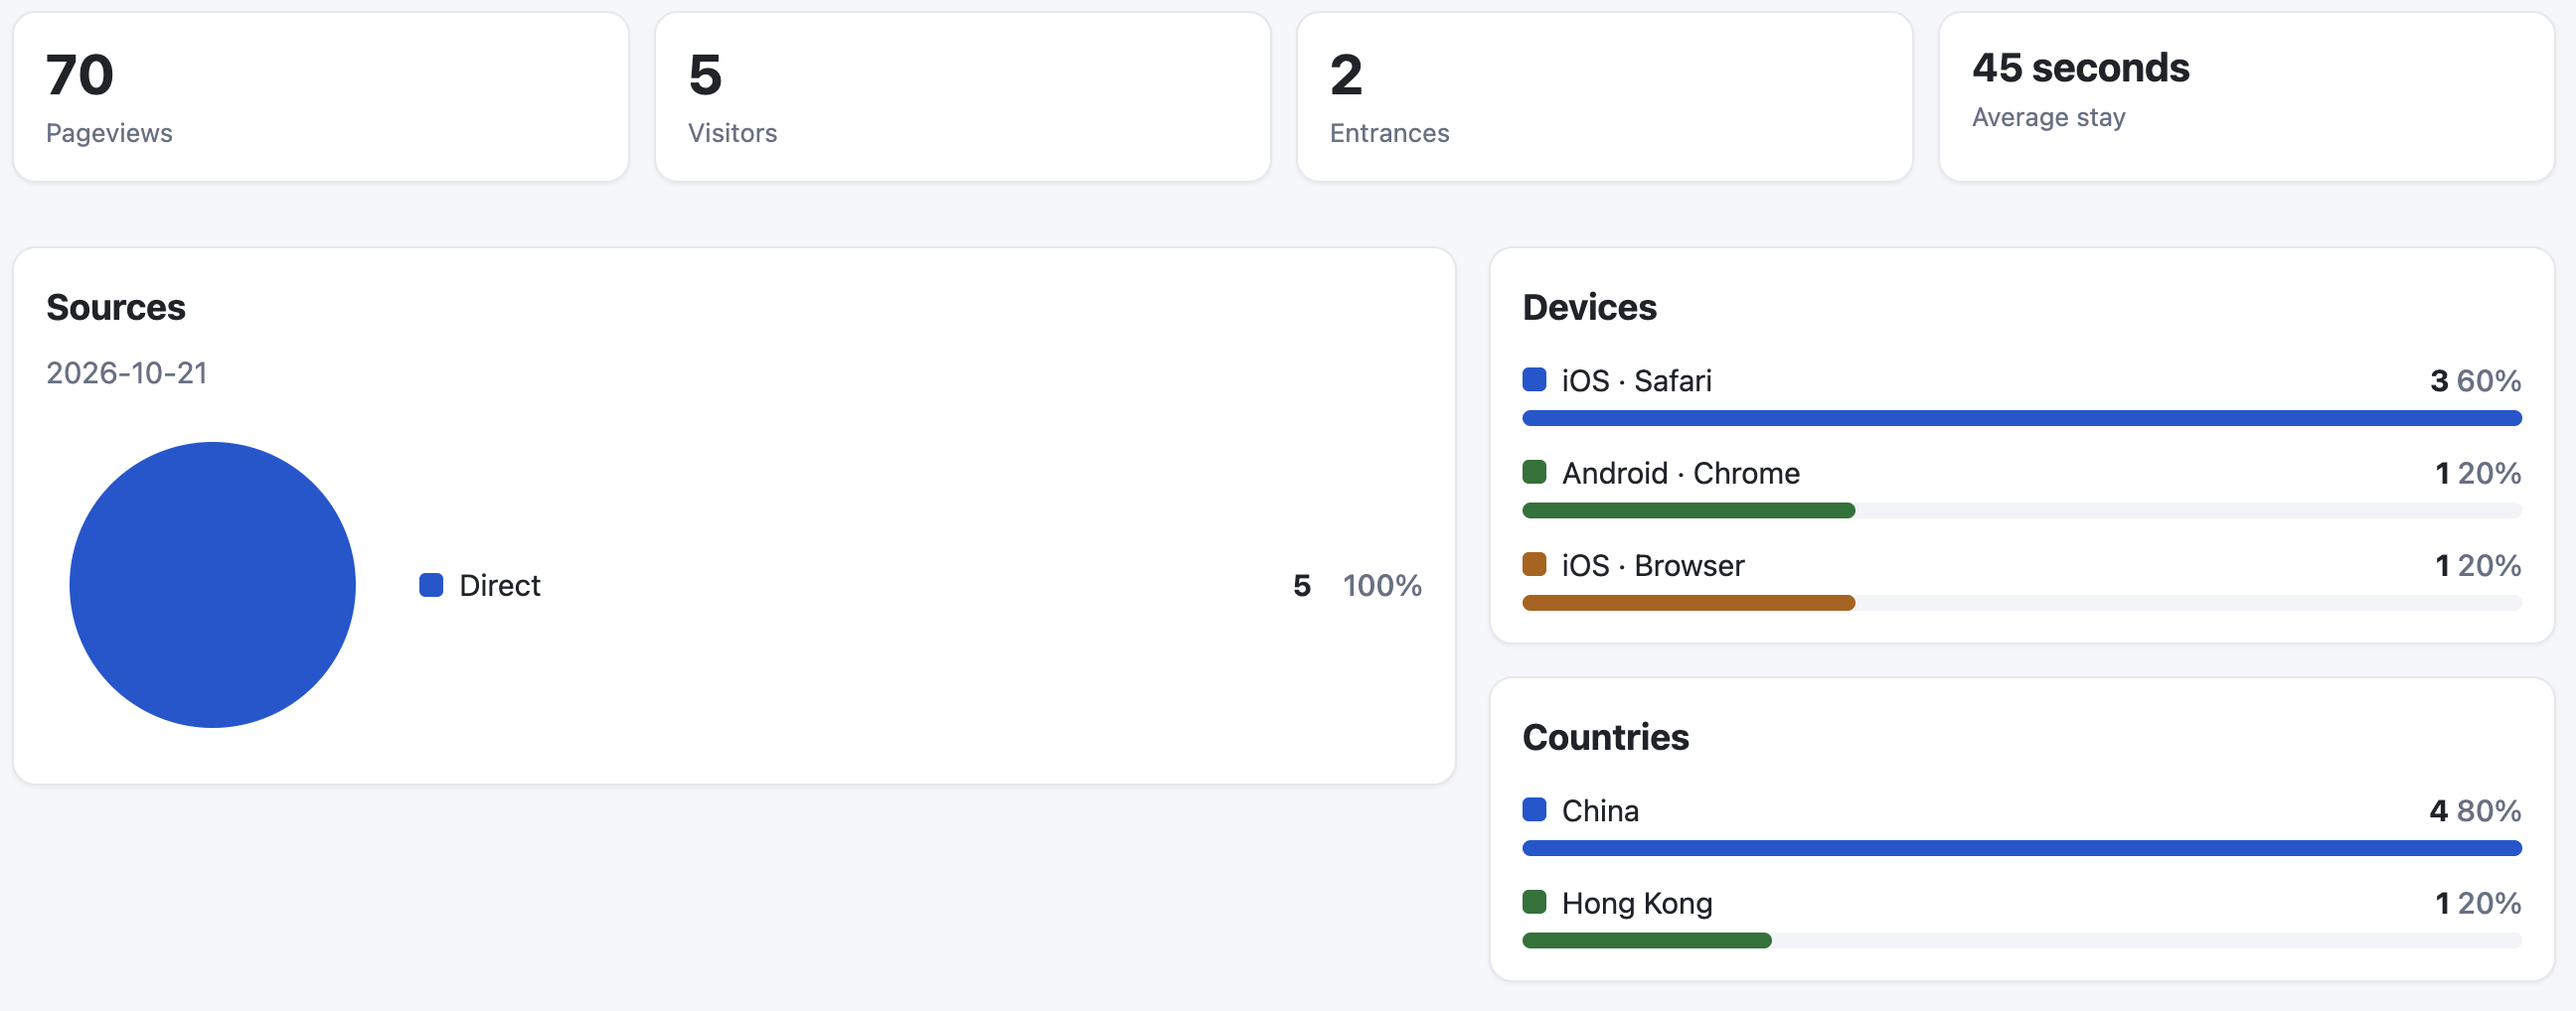
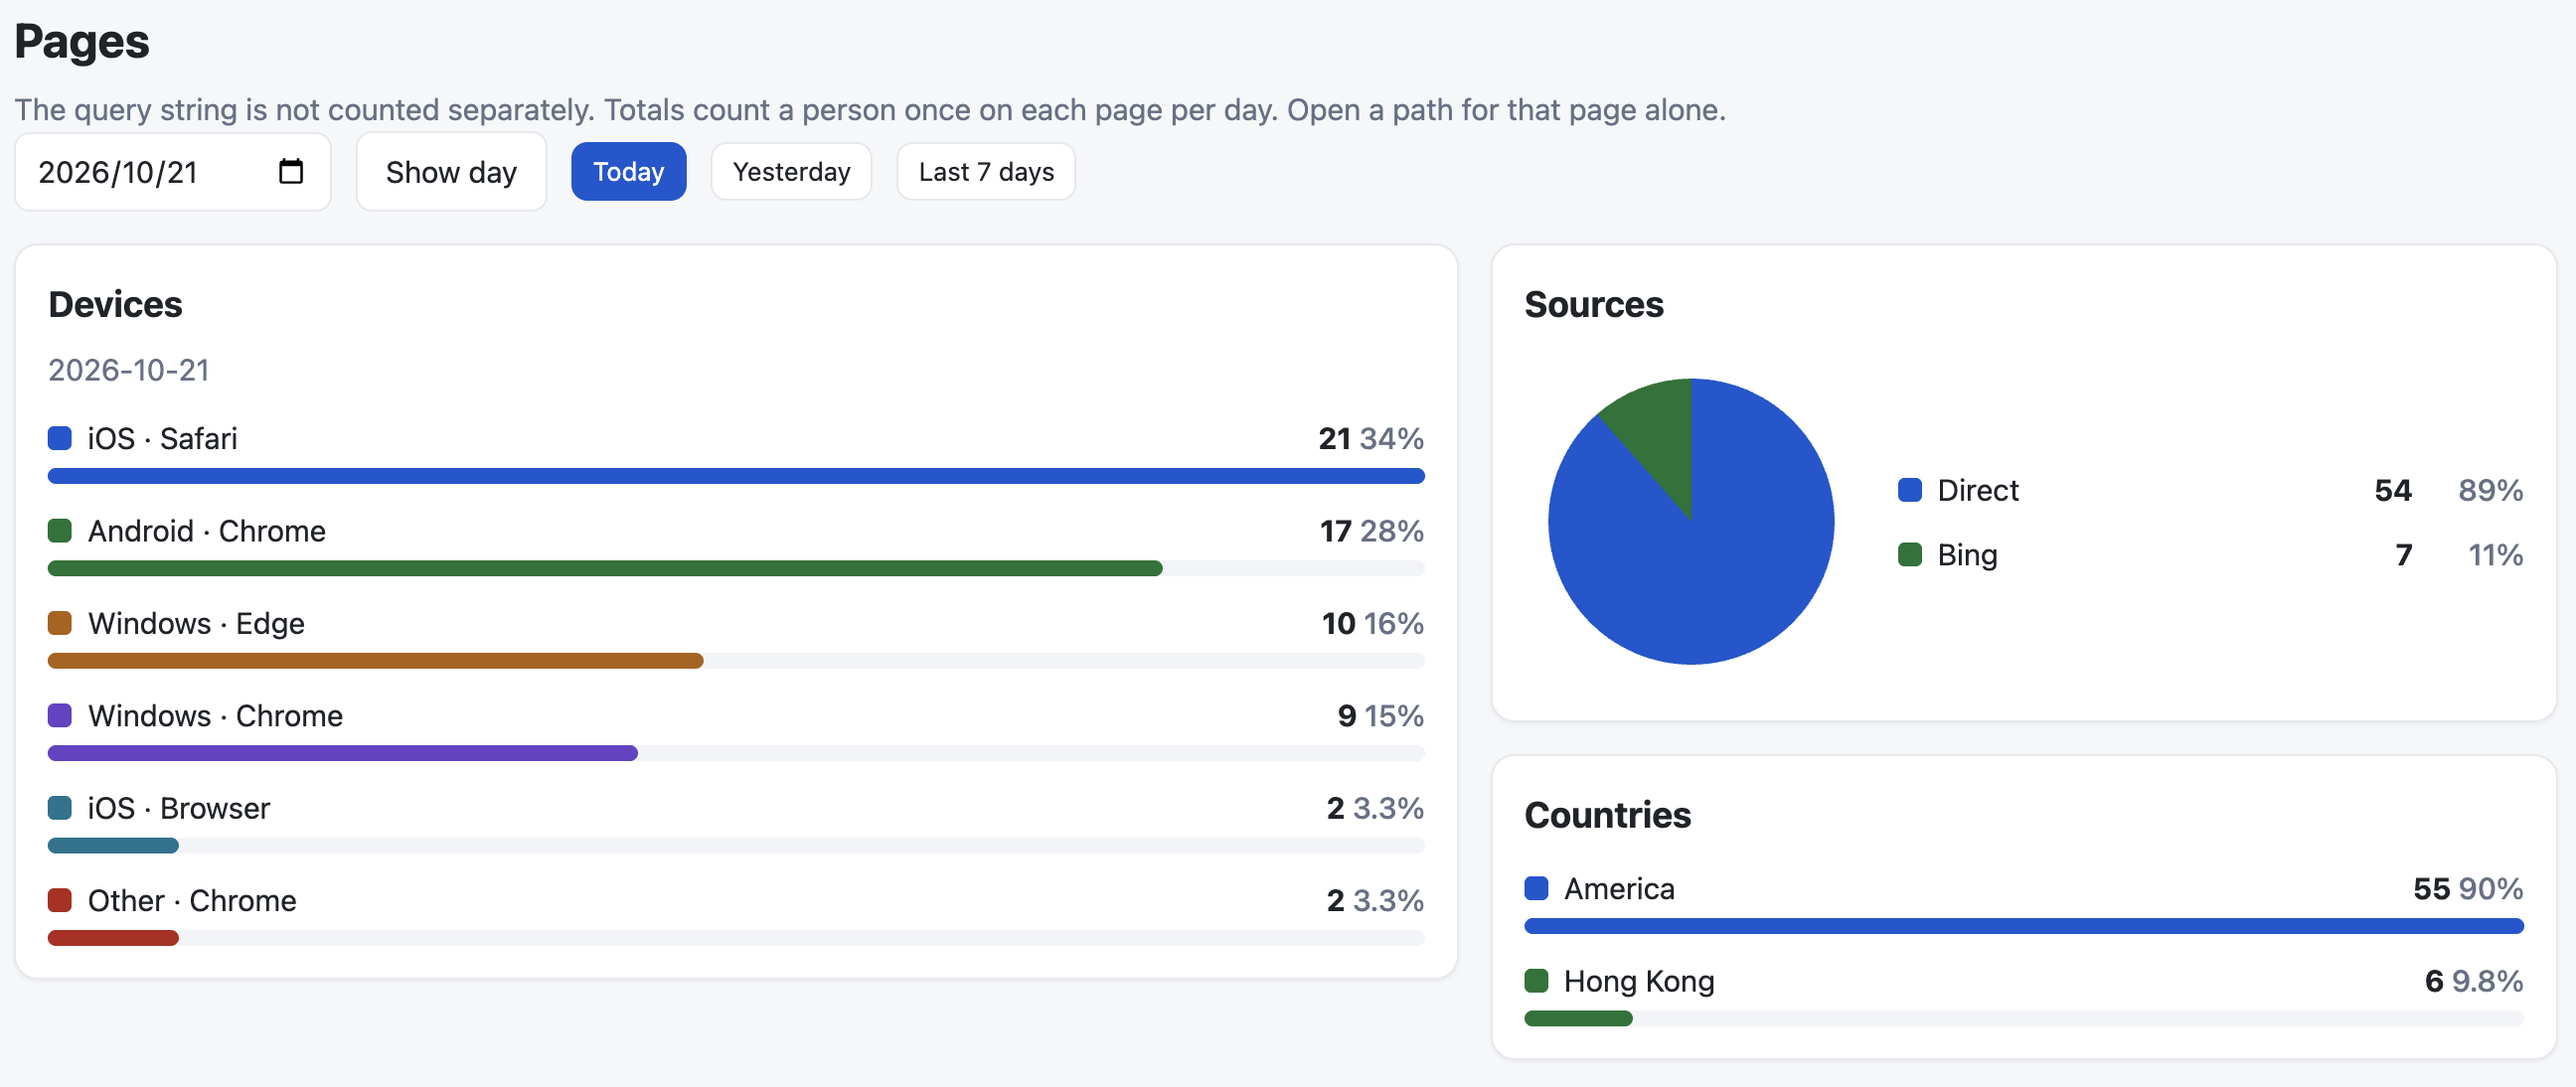
Replace the readme chart with the pages list totals.

diff --git a/README.md b/README.md
@@ -8,7 +8,7 @@ It records pageviews, visitors, referrers, devices, and time on page. The tracke
 
 ![Admin daily summary and visitor list](docs/admin-overview.png)
 
-![Page source pie chart, devices, and countries](docs/page-sources.png)
+![Pages totals for devices, sources, and countries](docs/page-sources.png)
 
 - One script tag records pageviews and follows client-side navigation
 - The admin shows daily visitors, the last 7 days, and a per-page source pie chart with device, country, entrances, and average stay
